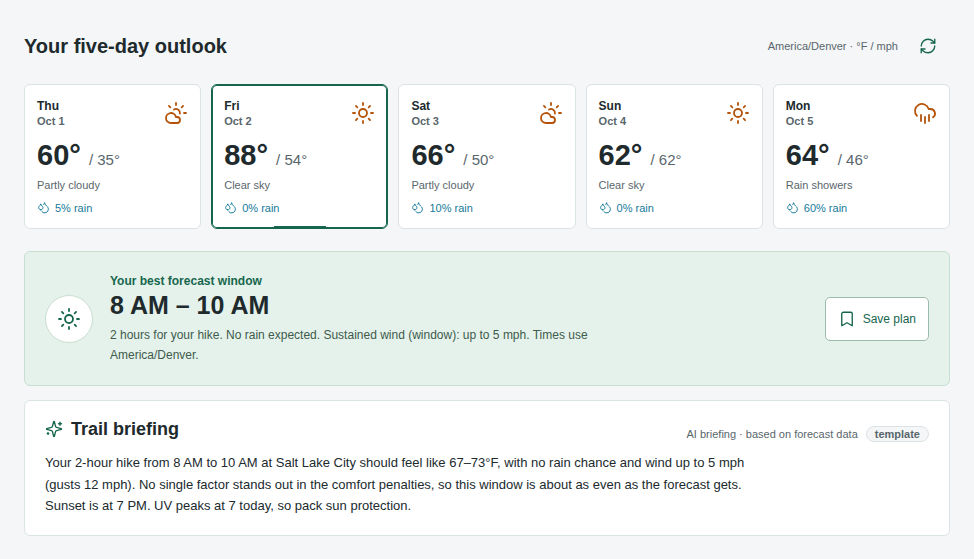
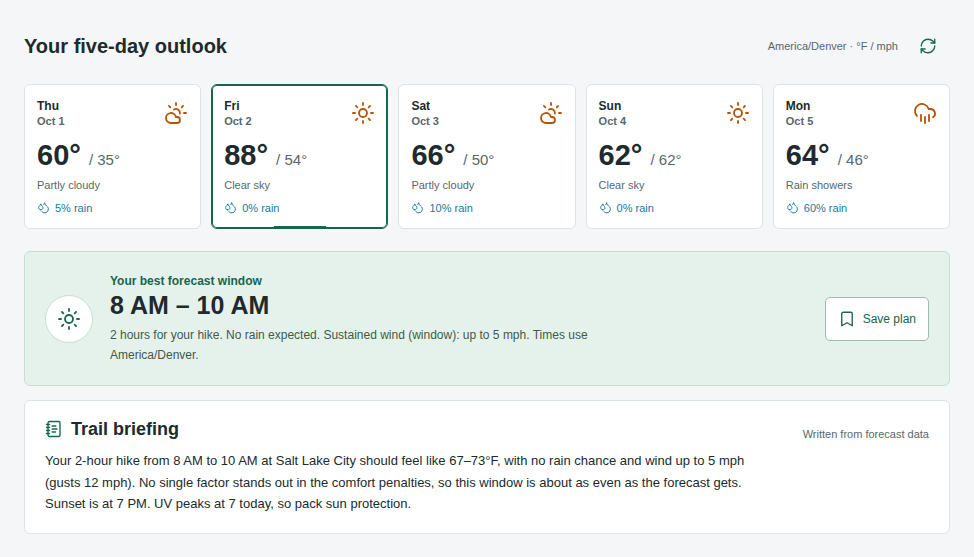
Only label the briefing as AI when a Worker is configured
With BRIEFING_URL empty the card reads "Written from forecast data" with a
notebook icon and no badge. With a Worker it reads "AI briefing · based on
forecast data", and a failed request shows the template badge. The README
and screenshot now describe the live demo as template-based.

Claude-Session: https://claude.ai/code/session_017HXpU1hXqfdhgJXkz37MJK

diff --git a/app.js b/app.js
@@ -213,14 +213,22 @@ function showBriefing({ text, source }) {
   $("#briefing-loading").hidden = true;
   $("#briefing-text").textContent = text;
   $("#briefing-text").hidden = false;
-  $("#briefing-source").hidden = source !== "template";
+  $("#briefing-source").hidden =
+    source !== "template" || !TrailBriefing.aiEnabled;
+}
+// The card only claims AI when a Worker is configured. A failed AI request
+// still shows the template, marked with a badge.
+if (TrailBriefing.aiEnabled) {
+  $("#briefing-icon").dataset.lucide = "sparkles";
+  $("#briefing-label-text").textContent =
+    "AI briefing · based on forecast data";
 }
 function renderBriefing(compared) {
   if (!bestWindow) {
     briefingKey = null;
     showBriefing({
       text: "No complete daylight window fits your limits on this day, so there is no window to brief. Try another day, a shorter outing, or different limits.",
-      source: "template",
+      source: "none",
     });
     return;
   }

diff --git a/index.html b/index.html
@@ -277,10 +277,16 @@
           <section class="briefing" aria-labelledby="briefing-heading">
             <div class="briefing-heading">
               <h2 id="briefing-heading">
-                <i data-lucide="sparkles" aria-hidden="true"></i>Trail briefing
+                <i
+                  id="briefing-icon"
+                  data-lucide="notebook-text"
+                  aria-hidden="true"
+                ></i
+                >Trail briefing
               </h2>
               <span class="briefing-label"
-                >AI briefing · based on forecast data<span
+                ><span id="briefing-label-text">Written from forecast data</span
+                ><span
                   id="briefing-source"
                   class="briefing-badge"
                   title="Written locally from templates because the AI briefing was unavailable"

diff --git a/briefing.js b/briefing.js
@@ -148,6 +148,7 @@
 
   root.TrailBriefing = {
     BRIEFING_URL,
+    aiEnabled: !!BRIEFING_URL,
     TIMEOUT_MS,
     buildPayload,
     templateBriefing,

diff --git a/README.md b/README.md
@@ -6,14 +6,14 @@
 
 ![Five-day outlook, best forecast window and trail briefing](docs/screenshot.png)
 
-It's a static site with no build step and no account. It uses Leaflet, OpenStreetMap and Open-Meteo, plus an optional Cloudflare Worker for the AI briefing.
+It's a static site with no build step and no account. It uses Leaflet, OpenStreetMap and Open-Meteo, plus an optional Cloudflare Worker for AI briefings.
 
 ## Features
 
 - **Window scoring.** Ranks every complete daylight window of 1–5 hours by rain, wind and feels-like penalties, and shows the math: a per-component penalty table, alternative windows, and honest tie notes.
 - **GPX import and elevation.** Parses a GPX file in the browser and reports distance and ascent. You can forecast at the start, high point or finish, at that point's elevation. You can also click the map or enter coordinates and elevation by hand.
 - **Adaptive packing list.** Items appear because of the forecast: a warm layer for low feels-like, sun protection for UV, extra water for heat, a windproof layer for gusts, a shell for rain. Each forecast-driven item says why in parentheses.
-- **AI trail briefing.** A 2–3 sentence summary of the chosen window that names its main tradeoff, such as a cold start, afternoon heat or gusts on exposed terrain. It uses only the forecast numbers. If the AI is unavailable, a local template writes the briefing, so the card is never blank.
+- **Trail briefing.** A 2–3 sentence summary of the chosen window that names its main tradeoff, such as a cold start, afternoon heat or gusts on exposed terrain, using only the forecast numbers. The live demo writes it from local templates. An AI version is built and tested behind a Cloudflare Worker (see [Deploy the AI briefing](#deploy-the-ai-briefing)); once deployed, the card switches to AI text and falls back to the template on any error, so it's never blank.
 - Personal rain and gust limits, saved plans, a persistent checklist, plan download, an hourly chart with a numeric table, keyboard and screen-reader support, and layouts from 390px phones up.
 
 ## How scoring works
@@ -47,7 +47,7 @@ Times use the destination's timezone, not the browser's.
 
 **Ties:** scores within 1e-9 of each other count as equal, and the earlier start wins. The interface says so, for example "Two windows tie on comfort penalties; the earliest complete window wins."
 
-**Why these are comfort preferences, not safety probabilities:** the thresholds (42–75°F, 10 mph wind, 20 mph gusts) and weights describe how pleasant a few hours outside usually feel. They aren't calibrated against injury or incident data, and a low score doesn't mean a window is safe. Terrain, lightning outside the forecast grid, avalanche hazard, closures and route exposure are not modeled. The AI briefing explains this deterministic score; it doesn't change the score or the ranking.
+**Why these are comfort preferences, not safety probabilities:** the thresholds (42–75°F, 10 mph wind, 20 mph gusts) and weights describe how pleasant a few hours outside usually feel. They aren't calibrated against injury or incident data, and a low score doesn't mean a window is safe. Terrain, lightning outside the forecast grid, avalanche hazard, closures and route exposure are not modeled. The briefing explains this deterministic score; it doesn't change the score or the ranking.
 
 ## Architecture
 
@@ -100,7 +100,7 @@ cd worker && npm install && npm test  # Worker validation, CORS, rate limit and 
 
 `check:responsive` stubs Open-Meteo and the map tiles with a fixture, so it runs offline and gives the same result every time. It fails on horizontal page scroll, console errors, tap targets under 44px at 390px, or a broken briefing fallback.
 
-Without a Worker, the briefing card shows the template version with a small "template" badge.
+Without a Worker, the briefing card shows the template version and makes no AI claim. With one, it's labelled as an AI briefing, and a failed request shows the template with a small "template" badge.
 
 ## Deploy the AI briefing
 
